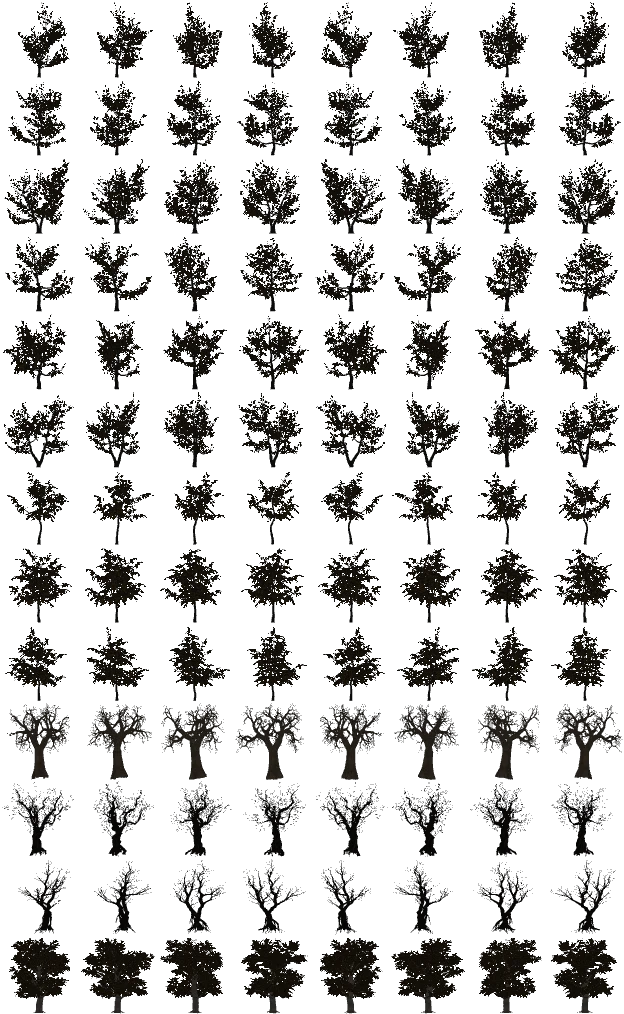
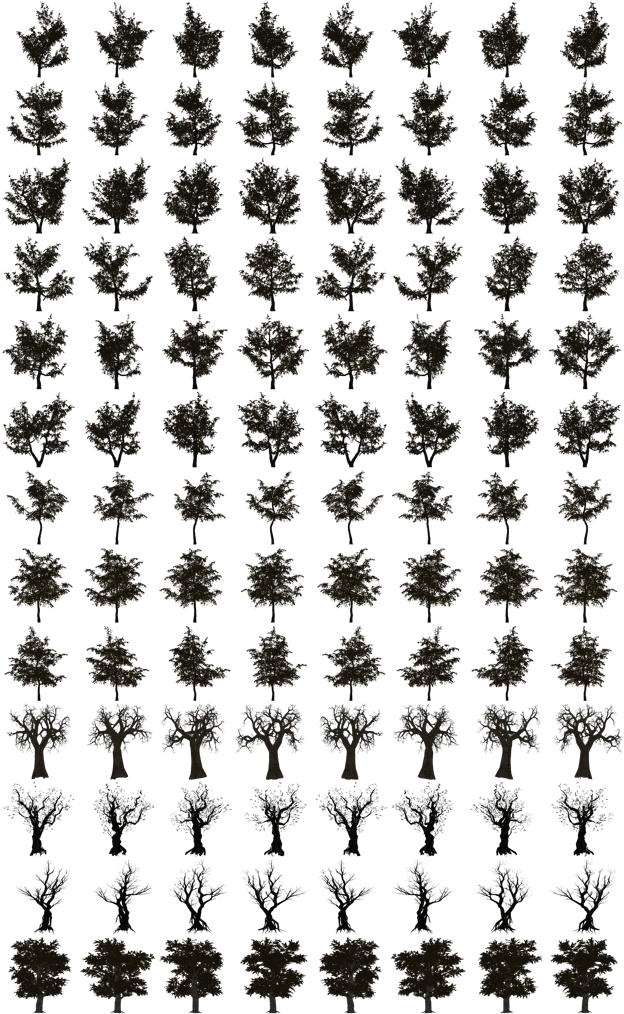
Trees: supersampled impostor bake, coverage-true crowns, tighter LOD ranges
Impostors are rendered at 3x and averaged down (colour and coverage apart),
and drawn with their coverage as a screen-door, so half-bare autumn crowns
stay see-through in the fog instead of turning into solid blobs. Mesh LOD
ranges pulled in so a landscape phone view of the thickest wood stays
under ~140k vegetation triangles.

Claude-Session: https://claude.ai/code/session_01AdHbdqHv5862Z3esJRWdAT

diff --git a/src/forest.ts b/src/forest.ts
@@ -46,14 +46,14 @@ interface Sp {
 }
 const SPECIES: Record<string, Sp> = {
   // Big old oaks: crowns 25-30 m across at full size, so scaled down a little.
-  large: { ids: ['oakL1', 'oakL2', 'oakL3'], ends: [10, 20, 42], far: 125, scale: [0.6, 0.78], room: 6.5, leafy: true },
-  big: { ids: ['oakB1', 'oakB3', 'oakB4'], ends: [8, 16, 24, 40], far: 120, scale: [0.72, 0.95], room: 5, leafy: true },
-  medium: { ids: ['oakM1', 'oakM2', 'oakM3'], ends: [8, 18, 38], far: 95, scale: [0.9, 1.3], room: 2.6, leafy: true },
+  large: { ids: ['oakL1', 'oakL2', 'oakL3'], ends: [8, 18, 42], far: 125, scale: [0.6, 0.78], room: 6.5, leafy: true },
+  big: { ids: ['oakB1', 'oakB3', 'oakB4'], ends: [6, 14, 22, 40], far: 120, scale: [0.72, 0.95], room: 5, leafy: true },
+  medium: { ids: ['oakM1', 'oakM2', 'oakM3'], ends: [6, 16, 38], far: 95, scale: [0.9, 1.3], room: 2.6, leafy: true },
   small: { ids: ['oakS1', 'oakS2'], ends: [8, 30], far: 0, scale: [0.75, 1.3], room: 1.6, leafy: true },
-  ancient: { ids: ['ancient'], ends: [12, 24, 40], far: 100, scale: [0.95, 1.25], room: 6, leafy: false },
-  twisted: { ids: ['twisted'], ends: [10, 20, 38], far: 95, scale: [0.85, 1.2], room: 3.2, leafy: false },
-  snag: { ids: ['snag'], ends: [10, 20, 38], far: 95, scale: [0.75, 1.1], room: 2.4, leafy: false },
-  poplar: { ids: ['poplar'], ends: [5, 16, 26, 40], far: 120, scale: [0.8, 1.15], room: 4.5, leafy: true },
+  ancient: { ids: ['ancient'], ends: [9, 22, 40], far: 100, scale: [0.95, 1.25], room: 6, leafy: false },
+  twisted: { ids: ['twisted'], ends: [8, 18, 38], far: 95, scale: [0.85, 1.2], room: 3.2, leafy: false },
+  snag: { ids: ['snag'], ends: [8, 18, 38], far: 95, scale: [0.75, 1.1], room: 2.4, leafy: false },
+  poplar: { ids: ['poplar'], ends: [5, 10, 22, 40], far: 120, scale: [0.8, 1.15], room: 4.5, leafy: true },
 };
 
 export function buildForest(scene: THREE.Scene, b: Builder, o: ForestOpts): THREE.Object3D {

diff --git a/tools/trees/bake.ts b/tools/trees/bake.ts
@@ -7,7 +7,9 @@ import { loadTreePack } from '../../src/vegetation/pack';
 import { barkMaterial, leafMaterial, vegUniforms } from '../../src/vegetation/materials';
 
 const IMPOSTORS = ['oakL1', 'oakL2', 'oakL3', 'oakB1', 'oakB3', 'oakB4', 'oakM1', 'oakM2', 'oakM3', 'ancient', 'twisted', 'snag', 'poplar'];
-const COLS = 8, ROWS = 13, CELL = 78, W = COLS * CELL, H = ROWS * CELL;
+// Rendered at SS times the final size and averaged down (tools/trees/bake-impostors.cjs), so a
+// sparse crown keeps its true coverage in alpha instead of turning into a solid blob.
+const COLS = 8, ROWS = 13, OUT = 78, SS = 3, CELL = OUT * SS, W = COLS * CELL, H = ROWS * CELL;
 
 const pack = await loadTreePack();
 vegUniforms.uWind.value = 0;
@@ -59,7 +61,7 @@ function pass(bake: 1 | 2): string {
   const img = g.getImageData(0, 0, W, H), d = img.data;
   const filled = new Uint8Array(W * H);
   for (let i = 0; i < W * H; i++) filled[i] = d[i * 4 + 3] > 0 ? 1 : 0;
-  for (let it = 0; it < 12; it++) {
+  for (let it = 0; it < 8; it++) {
     const next = filled.slice();
     for (let y = 0; y < H; y++) for (let x = 0; x < W; x++) {
       const i = y * W + x;
@@ -83,4 +85,4 @@ function pass(bake: 1 | 2): string {
 
 const albedo = pass(1);
 const normal = pass(2);
-(window as unknown as { __bake: unknown }).__bake = { albedo, normal, json: { cols: COLS, rows: ROWS, size: [W, H], trees: out } };
+(window as unknown as { __bake: unknown }).__bake = { albedo, normal, json: { cols: COLS, rows: ROWS, size: [W / SS, H / SS], trees: out } };

diff --git a/src/vegetation/materials.ts b/src/vegetation/materials.ts
@@ -254,7 +254,8 @@ export function impostorMaterial(p: TreePack): THREE.MeshStandardMaterial {
         float col = vFrame.x;
         vec2 iuv = cell(col, vFrame.w, vIUv);
         vec4 ia = texture(tImp, iuv);
-        if (ia.a < 0.4) discard;
+        // coverage as a screen-door: sparse, half-bare crowns stay see-through in the fog
+        if (ia.a < 0.25 + 0.5 * th) discard;
         vec3 hc = ia.rgb;
         float hh = vTintI.y;
         hc = (hh < 0.5 ? mix(hc * vec3(0.92, 0.98, 1.04), hc, hh * 2.0) : mix(hc, hc * vec3(1.08, 1.0, 0.86), hh * 2.0 - 1.0)) * vTintI.x;
